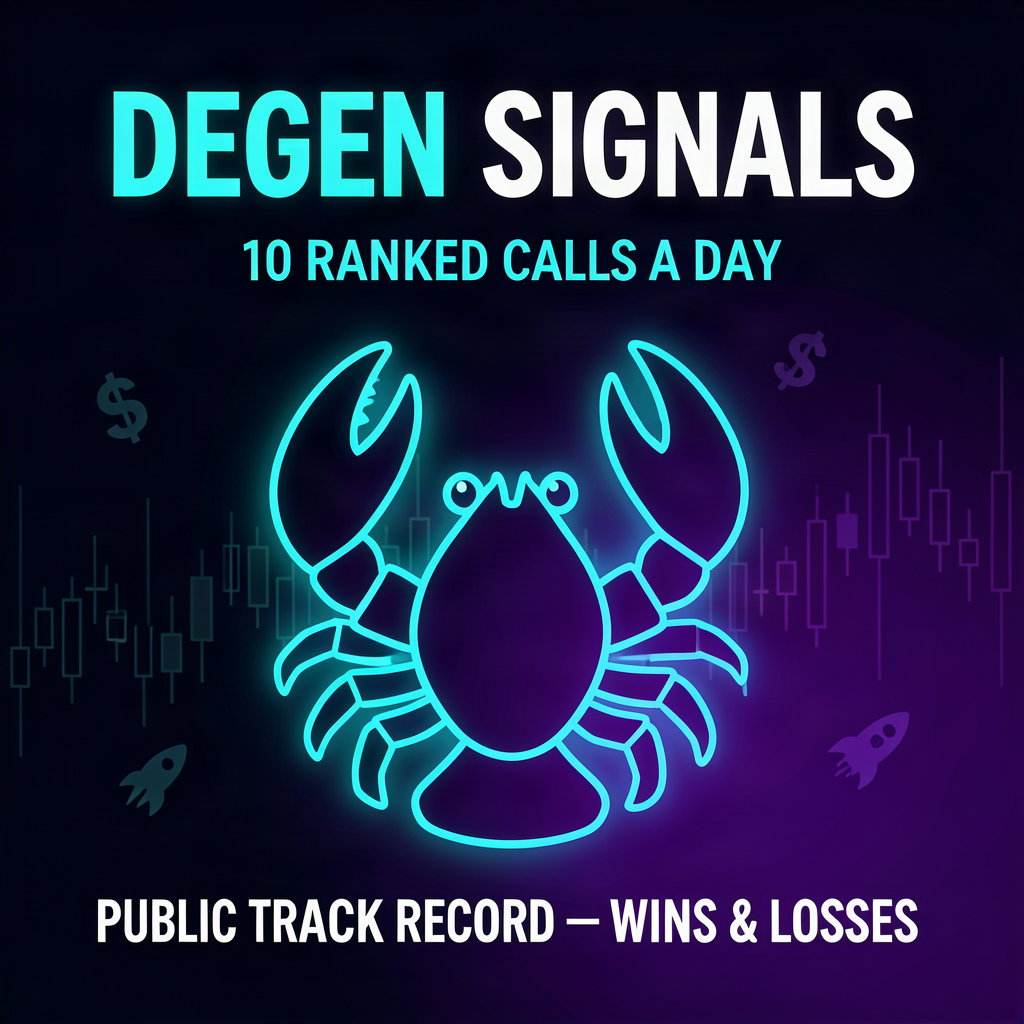
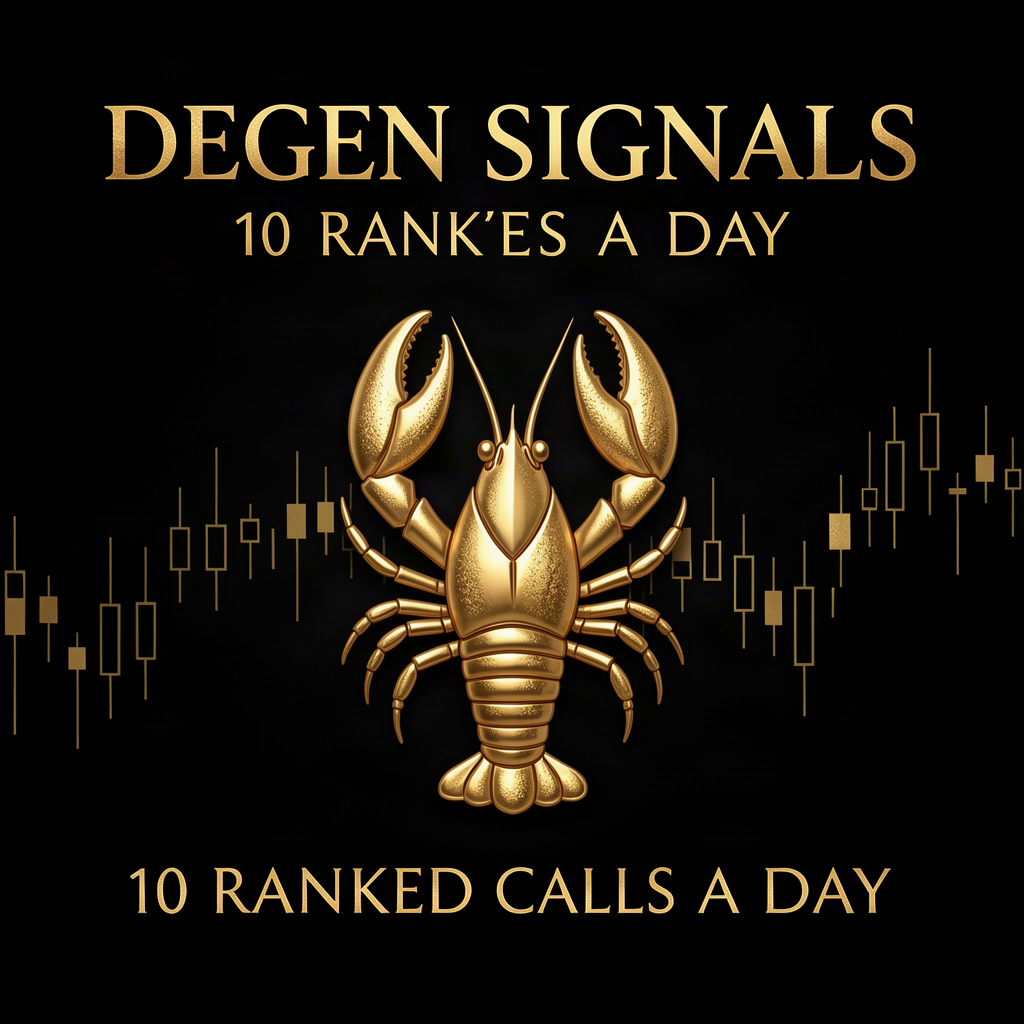
gold on obsidian black theme + gold brand assets

diff --git a/index.html b/index.html
@@ -25,17 +25,18 @@
 <meta name="twitter:image" content="https://mycosensai.github.io/degen-signals/banner-wide.png">
 <link rel="preconnect" href="https://fonts.googleapis.com">
 <link rel="preconnect" href="https://fonts.gstatic.com" crossorigin>
-<link href="https://fonts.googleapis.com/css2?family=Inter:wght@400;500;600;700;800&display=swap" rel="stylesheet">
+<link href="https://fonts.googleapis.com/css2?family=Playfair+Display:wght@600;700;800&family=Inter:wght@400;500;600;700;800&display=swap" rel="stylesheet">
 <style>
   :root {
-    --bg:#07090f; --bg2:#0a0e18; --panel:#0e1420; --line:#1c2740; --line2:#243350;
-    --txt:#e6edf7; --dim:#8a9ab8; --acc:#4fc3f7; --acc2:#7c5cf0; --ok:#4caf7d; --warn:#f0a24a; --bad:#e2574c;
-    --grad:linear-gradient(135deg,#4fc3f7,#7c5cf0);
-    --radius:14px; --shadow:0 20px 60px rgba(0,0,0,.5);
+    --bg:#050505; --bg2:#0d0c0a; --panel:#111009; --line:#2a2515; --line2:#3d3518;
+    --txt:#f2ead3; --dim:#a99c74; --acc:#d4af37; --acc2:#f0d060; --ok:#d4af37; --warn:#e0a83c; --bad:#c0392b;
+    --grad:linear-gradient(135deg,#f0d060,#d4af37,#9c7c1c);
+    --radius:14px; --shadow:0 20px 60px rgba(0,0,0,.6);
   }
   * { box-sizing:border-box; margin:0; padding:0; }
   html { scroll-behavior:smooth; }
   body { background:var(--bg); color:var(--txt); font-family:'Inter',-apple-system,"Segoe UI",Roboto,sans-serif; font-size:16px; line-height:1.6; -webkit-font-smoothing:antialiased; }
+  h1,h2,h3 { font-family:'Playfair Display',Georgia,serif; }
   a { color:var(--acc); text-decoration:none; }
   .wrap { max-width:960px; margin:0 auto; padding:0 24px; }
 
@@ -46,24 +47,24 @@
   .brand .mark { font-size:22px; }
   .navlink { color:var(--dim); font-size:14px; font-weight:600; margin-left:24px; }
   .navlink:hover { color:var(--txt); }
-  .navcta { background:var(--grad); color:#fff !important; font-weight:700; font-size:13px; padding:9px 18px; border-radius:10px; margin-left:16px; }
-  .navcta:hover { filter:brightness(1.1); }
+  .navcta { background:var(--grad); color:#0a0a0a !important; font-weight:700; font-size:13px; padding:9px 18px; border-radius:10px; margin-left:16px; }
+  .navcta:hover { filter:brightness(1.15); }
 
   /* hero */
   .hero { padding:72px 0 40px; text-align:center; position:relative; }
   .hero::before { content:""; position:absolute; inset:0; pointer-events:none;
-    background:radial-gradient(600px 300px at 50% 0%, rgba(124,92,240,.18), transparent 70%); }
+    background:radial-gradient(600px 300px at 50% 0%, rgba(212,175,55,.14), transparent 70%); }
   .pill { display:inline-flex; align-items:center; gap:8px; padding:6px 14px; border-radius:20px; font-size:12px; font-weight:700;
-    background:rgba(76,175,125,.12); color:#7ef0b0; border:1px solid rgba(76,175,125,.3); margin-bottom:22px; }
-  .pill .dot { width:7px; height:7px; border-radius:50%; background:#4caf7d; animation:pulse 2s infinite; }
+    background:rgba(212,175,55,.10); color:#f0d060; border:1px solid rgba(212,175,55,.3); margin-bottom:22px; }
+  .pill .dot { width:7px; height:7px; border-radius:50%; background:#d4af37; animation:pulse 2s infinite; }
   @keyframes pulse { 0%,100%{opacity:1} 50%{opacity:.4} }
   h1 { font-size:52px; line-height:1.08; font-weight:800; letter-spacing:-1px; margin-bottom:18px;
        background:var(--grad); -webkit-background-clip:text; background-clip:text; color:transparent; }
   .sub { font-size:19px; color:var(--dim); max-width:640px; margin:0 auto 34px; }
   .cta-row { display:flex; gap:14px; justify-content:center; flex-wrap:wrap; }
-  .cta { display:inline-flex; align-items:center; gap:8px; background:var(--grad); color:#fff; font-weight:700; font-size:17px;
-         padding:15px 32px; border-radius:13px; box-shadow:0 8px 30px rgba(79,195,247,.3); transition:transform .15s, filter .15s; }
-  .cta:hover { transform:translateY(-2px); filter:brightness(1.1); }
+  .cta { display:inline-flex; align-items:center; gap:8px; background:var(--grad); color:#0a0a0a; font-weight:700; font-size:17px;
+         padding:15px 32px; border-radius:13px; box-shadow:0 8px 30px rgba(212,175,55,.3); transition:transform .15s, filter .15s; }
+  .cta:hover { transform:translateY(-2px); filter:brightness(1.12); }
   .cta.ghost { background:transparent; border:1px solid var(--line2); color:var(--txt); box-shadow:none; }
   .cta.ghost:hover { border-color:var(--acc); }
   .hero-foot { margin-top:20px; color:var(--dim); font-size:13px; }
@@ -88,18 +89,18 @@
   .picks-table th { background:var(--bg2); color:var(--dim); font-size:12px; text-transform:uppercase; letter-spacing:1px; text-align:left; padding:14px 16px; border-bottom:1px solid var(--line); }
   .picks-table td { padding:13px 16px; border-bottom:1px solid var(--line); }
   .picks-table tr:last-child td { border-bottom:none; }
-  .picks-table tr:hover td { background:rgba(79,195,247,.04); }
+  .picks-table tr:hover td { background:rgba(212,175,55,.05); }
   .sym { font-weight:700; }
   .num { font-variant-numeric:tabular-nums; }
   .tag { display:inline-block; padding:3px 10px; border-radius:14px; font-size:12px; font-weight:700; }
-  .tag.live { background:rgba(79,195,247,.14); color:var(--acc); }
+  .tag.live { background:rgba(212,175,55,.15); color:#f0d060; }
   .picks-note { color:var(--dim); font-size:13px; margin-top:12px; }
 
   /* pricing */
   .price-grid { display:grid; grid-template-columns:repeat(auto-fit,minmax(260px,1fr)); gap:18px; align-items:stretch; }
   .price-card { background:var(--panel); border:1px solid var(--line); border-radius:18px; padding:28px; display:flex; flex-direction:column; position:relative; }
   .price-card.pop { border-color:var(--acc); box-shadow:0 0 0 1px var(--acc), var(--shadow); }
-  .pop-badge { position:absolute; top:-12px; left:50%; transform:translateX(-50%); background:var(--grad); color:#fff; font-size:11px; font-weight:800; letter-spacing:1px; text-transform:uppercase; padding:4px 14px; border-radius:20px; }
+  .pop-badge { position:absolute; top:-12px; left:50%; transform:translateX(-50%); background:var(--grad); color:#0a0a0a; font-size:11px; font-weight:800; letter-spacing:1px; text-transform:uppercase; padding:4px 14px; border-radius:20px; }
   .price-card .tier { font-size:13px; font-weight:700; letter-spacing:1.5px; text-transform:uppercase; color:var(--dim); }
   .price-card .amount { font-size:42px; font-weight:800; letter-spacing:-1px; margin:12px 0 2px; }
   .price-card .amount small { font-size:15px; color:var(--dim); font-weight:500; }
@@ -111,8 +112,8 @@
   .price-card li:last-child { border-bottom:none; }
   .pbtn { display:block; text-align:center; background:var(--line2); color:var(--txt); font-weight:700; font-size:15px; padding:13px; border-radius:12px; transition:background .2s; }
   .pbtn:hover { background:var(--acc); color:#000; }
-  .price-card.pop .pbtn { background:var(--grad); color:#fff; }
-  .price-card.pop .pbtn:hover { filter:brightness(1.1); }
+  .price-card.pop .pbtn { background:var(--grad); color:#0a0a0a; }
+  .price-card.pop .pbtn:hover { filter:brightness(1.15); }
 
   /* honesty strip */
   .honesty { margin-top:72px; background:var(--panel); border:1px solid var(--line); border-radius:18px; padding:32px; text-align:center; }
